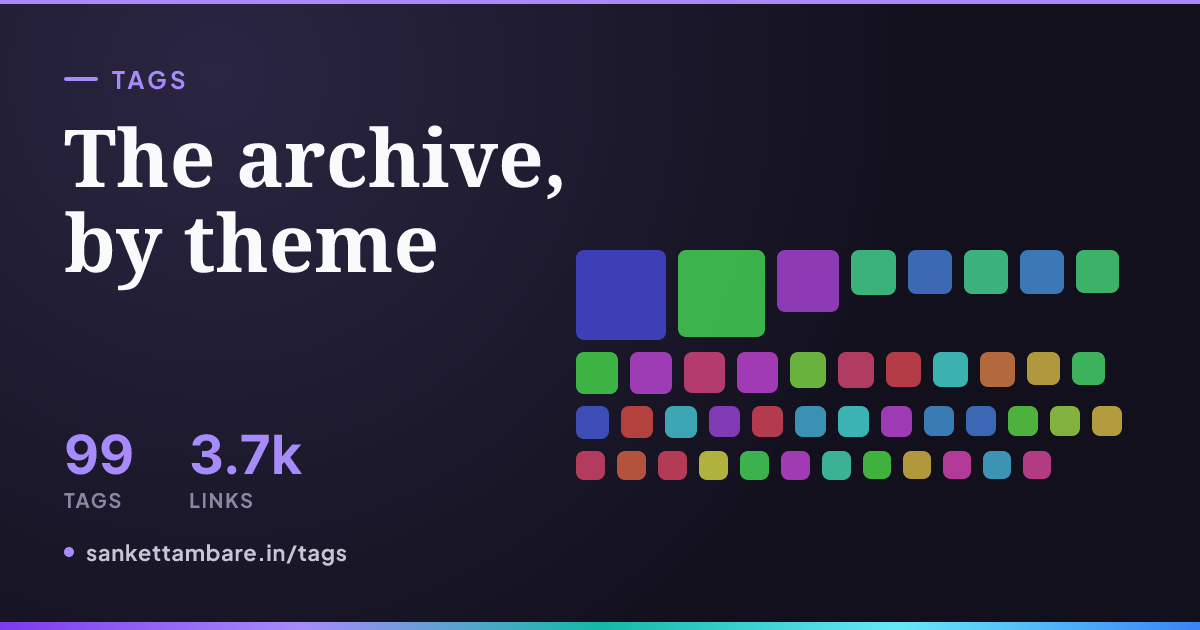
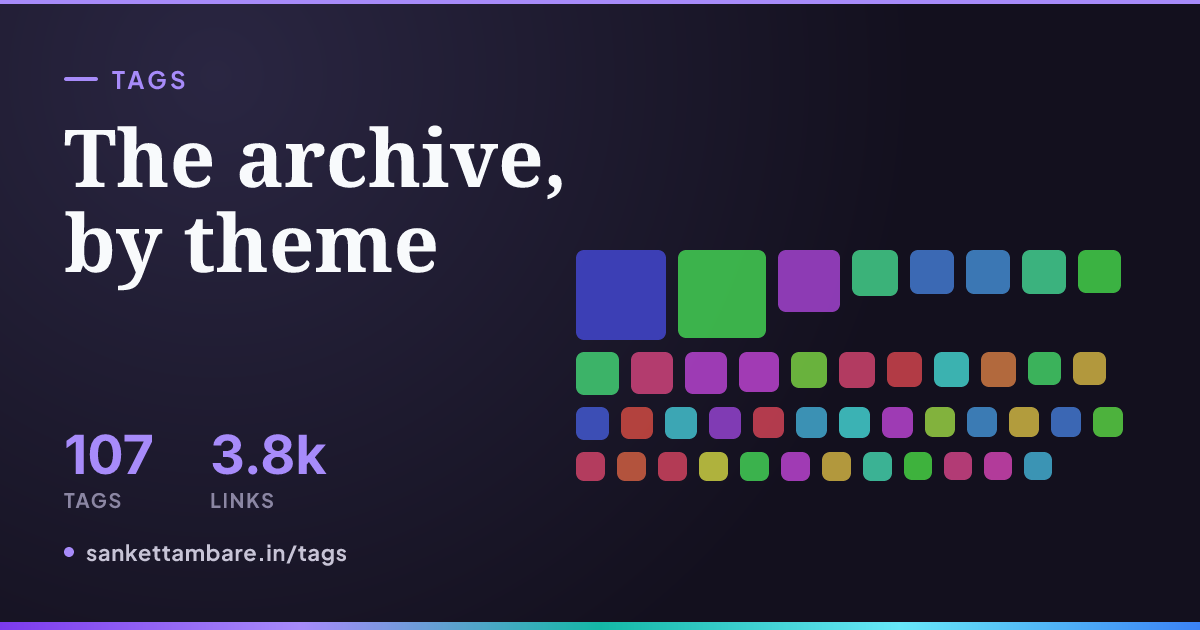
fix(docs): update counts for micro posts, projects, tags, and other statistics

diff --git a/docs/chatbot-context.md b/docs/chatbot-context.md
@@ -8,13 +8,13 @@ answering rules live with the prompt, and are not repeated here.
 - **Books** (52) — /books/:id. `year` is the year he READ it, not the
   publication year. `date_precision` is 'year' when the exact finish date is a guess.
   Status: read: 52. Language: English: 30, Marathi: 22.
-- **Micro posts** (1674) — /micro-blog/:id. A Tumblr archive,
-  2018-03-19 → 2026-10-15,
+- **Micro posts** (1675) — /micro-blog/:id. A Tumblr archive,
+  2018-03-19 → 2026-10-20,
   English and Marathi, short and unedited. Many are photo posts with no text.
 - **Blog posts** (71) — /100-days-to-offload/:id. Ledger rows that link out
   to Substack/WordPress. Their full text is indexed too; published essays with
   no ledger row are the **writing** type and link straight to the post.
-- **Projects** (20) — /projects/:id. Status: Live: 16, Concept: 1, Archived: 3.
+- **Projects** (22) — /projects/:id. Status: Live: 18, Concept: 1, Archived: 3.
 - **Races** (26) — /sports/:id. Distances: 10 Kms: 3, 21 Kms: 19, 35 Kms: 1, 42 Kms: 2, 50 Kms: 1.
 - **Treks** (20) — /treks/:id. Forts and hills, mostly around Pune.
 - **Instagram sets** (11) — /instagram (no detail page).
@@ -29,15 +29,15 @@ answering rules live with the prompt, and are not repeated here.
 - Running: 26 races, 598 km. PBs: marathon 05:05:53 (Tata Mumbai Marathon 2026), half 1:59:57 (NMDC Hyderabad Marathon 2025), 10K 00:55:28 (IPA Neerathon 2026).
 - Treks: 20 (3 hard) over 5 years; latest Ghangad Fort.
 - 100 Days To Offload: 71 of 100 posts.
-- Micro posts: 1674; longest daily streak 16 days.
+- Micro posts: 1675; longest daily streak 16 days.
 - Photos: 11 Instagram sets, 71 photos.
-- Work: 6 organisations, 19 projects, 12 certifications (latest: AWS Fundamentals Specialization).
+- Work: 6 organisations, 21 projects, 12 certifications (latest: AWS Fundamentals Specialization).
 - Based in Pune, MH.
 
 ## Tags
 
-102 tags, shared across every content type, always lowercase.
-Most used: life (481), self-reflection (466), marathi (272), social media (145), love (137), personaldevelopment (135), sanky (134), calmness (127), philosophy (127), travel (119), digital wellbeing (118), latepost (109), digital detox (77), politics (73), psychology (70), social (67), technology (66), ai (54), choices (54), maharashtra (51).
+107 tags, shared across every content type, always lowercase.
+Most used: life (482), self-reflection (467), marathi (272), social media (147), love (137), personaldevelopment (136), sanky (134), philosophy (128), calmness (127), digital wellbeing (120), travel (119), latepost (109), digital detox (79), politics (73), psychology (70), social (67), technology (66), ai (54), choices (54), maharashtra (51).
 Tag pages live at /tags/:name.
 
 ## What a micro post is

diff --git a/docs/tags.md b/docs/tags.md
@@ -6,19 +6,19 @@ Names are lowercase and URI-encoded rather than slugified.
 <!-- generated:tags start -->
 | tag | items | category |
 |---|---|---|
-| `life` | 481 | Mind & Life |
-| `self-reflection` | 466 | Mind & Life |
+| `life` | 482 | Mind & Life |
+| `self-reflection` | 467 | Mind & Life |
 | `marathi` | 272 | Books & Reading |
-| `social media` | 145 | Digital Life |
+| `social media` | 147 | Digital Life |
 | `love` | 137 | People & Feelings |
-| `personaldevelopment` | 135 | Mind & Life |
+| `personaldevelopment` | 136 | Mind & Life |
 | `sanky` | 134 | Personal |
+| `philosophy` | 128 | Society & Ideas |
 | `calmness` | 127 | Mind & Life |
-| `philosophy` | 127 | Society & Ideas |
+| `digital wellbeing` | 120 | Digital Life |
 | `travel` | 119 | Travel & Outdoors |
-| `digital wellbeing` | 118 | Digital Life |
 | `latepost` | 109 | Writing & Blogging |
-| `digital detox` | 77 | Digital Life |
+| `digital detox` | 79 | Digital Life |
 | `politics` | 73 | Society & Ideas |
 | `psychology` | 70 | Society & Ideas |
 | `social` | 67 | Society & Ideas |
@@ -44,10 +44,10 @@ Names are lowercase and URI-encoded rather than slugified.
 | `mydesigns` | 23 | Arts & Culture |
 | `youth` | 22 | Society & Ideas |
 | `marathon` | 21 | Running & Fitness |
-| `privacy` | 19 | Digital Life |
+| `privacy` | 21 | Digital Life |
 | `scientific temperament` | 19 | Society & Ideas |
 | `history` | 18 | Society & Ideas |
-| `claude code` | 16 | Technology & Data |
+| `claude code` | 17 | Technology & Data |
 | `data privacy` | 16 | Digital Life |
 | `fiction` | 15 | Books & Reading |
 | `information age` | 15 | Digital Life |
@@ -91,8 +91,11 @@ Names are lowercase and URI-encoded rather than slugified.
 | `search` | 2 | Society & Ideas |
 | `sexual-drama` | 2 | Books & Reading |
 | `wardha` | 2 | Travel & Outdoors |
+| `accessibility` | 1 | — |
+| `digital-wellbeing` | 1 | — |
 | `google sites` | 1 | Writing & Blogging |
 | `harihareshwar` | 1 | Travel & Outdoors |
+| `interactive-storytelling` | 1 | — |
 | `kailasgad` | 1 | Travel & Outdoors |
 | `krantismritivan` | 1 | Travel & Outdoors |
 | `obsidian` | 1 | Writing & Blogging |
@@ -100,7 +103,9 @@ Names are lowercase and URI-encoded rather than slugified.
 | `pegasus` | 1 | Digital Life |
 | `rafting_amidst_the_waves🏖` | 1 | Travel & Outdoors |
 | `republic day` | 1 | Society & Ideas |
+| `research-communication` | 1 | — |
 | `rock_garden` | 1 | Travel & Outdoors |
+| `scrollytelling` | 1 | — |
 | `sea_at_night🌃🌊` | 1 | Travel & Outdoors |
 | `semiconductor` | 1 | Technology & Data |
 | `tata` | 1 | Society & Ideas |

diff --git a/docs/data-model.md b/docs/data-model.md
@@ -73,7 +73,7 @@ Client-side renames: tags live on `blog_tags`, not `tags`
 
 A 2013→2019 Tumblr archive, imported in bulk. Two languages, ~59% photo posts, short and unedited.
 
-Rows: **1674** · indexed as `microblog`
+Rows: **1675** · indexed as `microblog`
 
 Client-side renames: `source_id` → `sourceId`, `post_type` → `postType`, `image_url` → `imageUrl`
 
@@ -101,7 +101,7 @@ Constraints:
 
 Things built, with problem/solution/outcome prose. `visible = false` means draft and is hidden by RLS, not by React.
 
-Rows: **20** · indexed as `project`
+Rows: **22** · indexed as `project`
 
 Client-side renames: `description` → `desc`, `tech_stack` → `techStack`, `slide_images` → `slideImages`
 
@@ -138,7 +138,7 @@ Constraints:
 
 HTML slide decks hosted elsewhere and embedded by URL in an iframe. The row is metadata only; the deck text is fetched at index time.
 
-Rows: **18** · indexed as `presentation`
+Rows: **19** · indexed as `presentation`
 
 | column | type | null | default |
 |---|---|---|---|
@@ -239,7 +239,7 @@ Client-side renames: `is_current` → `isCurrent`
 
 The central tag vocabulary: lowercase name, display name, colour, category.
 
-Rows: **102**
+Rows: **107**
 
 Client-side renames: `display_name` → `displayName`
 
@@ -263,7 +263,7 @@ Constraints:
 
 Polymorphic join from a tag to a row in any content table.
 
-Rows: **3806**
+Rows: **3824**
 
 | column | type | null | default |
 |---|---|---|---|
@@ -280,7 +280,7 @@ Constraints:
 
 The /ask search index. Written only by `npm run ask:index` — never by hand.
 
-Rows: **3235**
+Rows: **3262**
 
 | column | type | null | default |
 |---|---|---|---|
